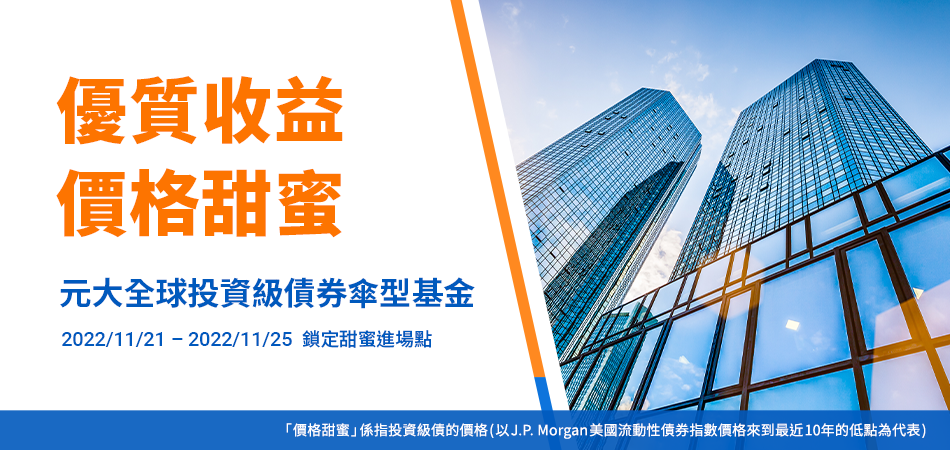
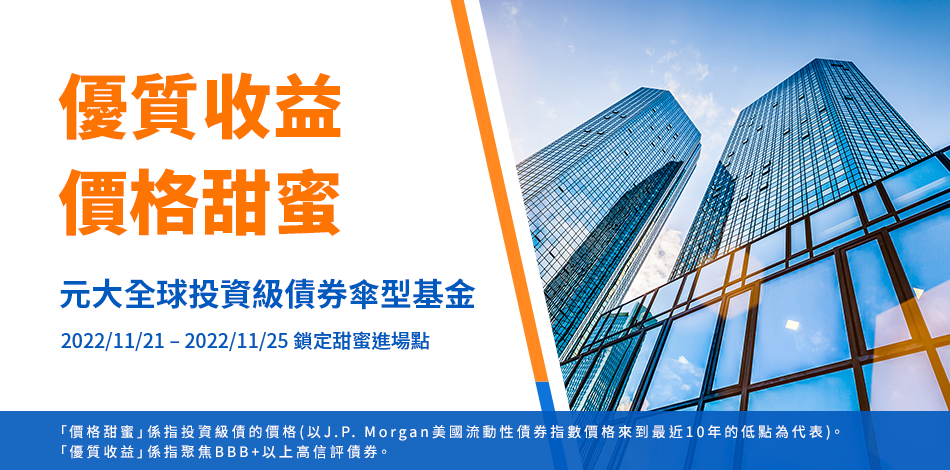
33

diff --git a/YGIGCBUF/index.html b/YGIGCBUF/index.html
@@ -114,7 +114,7 @@
                             <h2 class="wow fadeInUp" data-wow-delay="0.3s">
                                 優質收益<br>價格甜蜜
                                 <span>*</span>
-                                <p class="f14">「價格甜蜜」係指投資級債的價格(以J.P. Morgan美國流動性債券指數價格來到最近10年的低點為代表)。</p>
+                                <p class="f14">「價格甜蜜」係指投資級債的價格(以J.P. Morgan美國流動性債券指數價格來到最近10年的低點為代表)。<br />「優質收益」係指聚焦BBB+以上高信評債券。</p>
                             </h2>
                             <h3 class="wow fadeInUp" data-wow-delay="0.6s">元大全球投資級債券傘型基金</h3>
                             <p class="f22 wow fadeInUp" data-wow-delay="1.2s">2022/11/21 – 2022/11/25<span>鎖定甜蜜進場點</span></p>
@@ -148,7 +148,7 @@
                 </div>
                 <!-- 右側按鈕 -->
                 <div class="mainBtn" class="wow fadeIn" data-wow-delay="0.9s">
-                    <div id="btn-side-apply" class="f20 link"><a href="" target="_blank">我要申購</a></div>
+                    <div id="btn-side-apply" class="f20 link"><a href="https://ebank.yuantabank.com.tw/nib/ibanc_b.jsp?ZnVuZGJ1eSZZVDgyJnNpbmdsZQ==" target="_blank">我要申購</a></div>
                     <div id="btn-side-channel" class="f20 link"><a href="https://www.yuantabank.com.tw/bank/wealthManagement/wmPreOrderActivity/list.do?activity_id=YT82" target="_blank">我有興趣</a></div>
                 </div>
             </section>
@@ -475,7 +475,7 @@
                                 <p>
                                     <span class="item">檔案下載</span>
                                     <span class="val">
-                                        <a href="https://www.yuantafunds.com/fund/download/1213元大全球投資等級債券傘-公開說明書.pdf" target="_blank" id="btn-header-prospectus">
+                                        <a href="https://www.yuantabank.com.tw/bankwebIMG/event/Bank_Act2022/YGIGCBUF/download/1213元大全球投資等級債券傘-公開說明書.pdf" target="_blank" id="btn-header-prospectus">
                                             <img src="img/icon_section5_download.svg">公開說明書
                                         </a>
                                         <a :href="activeFundInfoList.url" target="_blank" :id="activeFundInfoList.simpId">
@@ -556,7 +556,7 @@
                                         <p>
                                             <span class="item">檔案下載</span>
                                             <span class="val">
-                                                <a href="https://www.yuantafunds.com/fund/download/1213元大全球投資等級債券傘-公開說明書.pdf" target="_blank" id="btn-header-prospectus">
+                                                <a href="https://www.yuantabank.com.tw/bankwebIMG/event/Bank_Act2022/YGIGCBUF/download/1213元大全球投資等級債券傘-公開說明書.pdf" target="_blank" id="btn-header-prospectus">
                                                     <img src="img/icon_section5_download.svg">公開說明書
                                                 </a>
                                                 <a :href="activeFundInfoList.url" target="_blank" id="btn-header-prospectus-simp">
@@ -584,7 +584,7 @@
                     </div>
                     <div class="content f14">
                         <p>
-                            【元大投信獨立經營管理】各子基金經金管會核准或申報生效，惟不表示絕無風險。本公司以往之經理績效，不保證基金之最低投資收益；本公司除盡善良管理人之注意義務外，不負責基金之盈虧，亦不保證最低之收益，投資人申購前應詳閱基金公開說明書。定期定額報酬率將因投資人不同時間進場，而有不同之投資績效，過去之績效亦不代表未來績效之保證；本文提及之經濟走勢預測，不必然代表基金之績效，基金投資風險請詳閱基金公開說明書。為避免因受益人短線交易頻繁，造成基金管理及交易成本增加，進而損及基金長期持有之受益人權益，基金不歡迎受益人進行短線交易。基金非存款或保險，故無受存款保險、保險安定基金或其他相關保障機制之保障。</span>
+                            【元大投信獨立經營管理】各子基金經金管會核准或申報生效，惟不表示絕無風險。本公司以往之經理績效，不保證基金之最低投資收益；本公司除盡善良管理人之注意義務外，不負責基金之盈虧，亦不保證最低之收益，投資人申購前應詳閱基金公開說明書。定期定額報酬率將因投資人不同時間進場，而有不同之投資績效，過去之績效亦不代表未來績效之保證；本文提及之經濟走勢預測，不必然代表基金之績效，基金投資風險請詳閱基金公開說明書。為避免因受益人短線交易頻繁，造成基金管理及交易成本增加，進而損及基金長期持有之受益人權益，基金不歡迎受益人進行短線交易。基金非存款或保險，故無受存款保險、保險安定基金或其他相關保障機制之保障。
                         </p>
                         <p class="yt-blue">基金的運用限制、投資風險、基金申購手續費之收取方式和比率、投資人應直接或間接負擔之相關費用、紛爭處理及申訴管道等皆已揭露於基金公開說明書中，投資人可向本公司及基金之銷售機構索取，亦可至公開資訊觀測站 (mops.twse.com.tw) 或本公司網站 (www.yuantafunds.com) 中查詢。</p>
                         <p class="yt-blue">各子基金主要投資風險包括國家風險、資產過度集中風險、利率風險、匯率風險、流動性風險、債券交易之信用風險等，基金所投資標的發生上開風險時，基金之淨資產價值可能因此產生波動。基金配息率不代表基金報酬率，且過去配息率不代表未來配息率；基金淨值可能因市場因素而上下波動。</p>
@@ -766,7 +766,7 @@
                         CLOSE: '自成立之日起 90 日曆日後',
                         CYCLE_TYPE: '不配息',
                         PAY_DAY: '買回申請日 ( T日 ) 之次一營業日起8個營業日內 ( 實際付款日為 T+6 )',
-                        url: 'https://www.yuantafunds.com/fund/download/1213元大0至2年投資級企業債券基金-簡式公開說明書.pdf',
+                        url: 'https://www.yuantabank.com.tw/bankwebIMG/event/Bank_Act2022/YGIGCBUF/download/1213元大0至2年投資級企業債券基金-簡式公開說明書.pdf',
                         simpId: 'btn-header-prospectus-simp-0to2'
                     },
                     {
@@ -782,7 +782,7 @@
                         CLOSE: '自成立之日起 90 日曆日後',
                         CYCLE_TYPE: '不配息、季配息 <span class="f14 ps">(3月、6月、9月、12月)</span>',
                         PAY_DAY: '買回申請日 ( T日 ) 之次一營業日起8個營業日內 ( 實際付款日為 T+6 )',
-                        url: 'https://www.yuantafunds.com/fund/download/1215元大2至10年投資級企業債券基金-簡式公開說明書.pdf',
+                        url: 'https://www.yuantabank.com.tw/bankwebIMG/event/Bank_Act2022/YGIGCBUF/download/1215元大2至10年投資級企業債券基金-簡式公開說明書.pdf',
                         simpId: 'btn-header-prospectus-simp-2to10'
                     },
                     {
@@ -798,7 +798,7 @@
                         CLOSE: '自成立之日起 90 日曆日後',
                         CYCLE_TYPE: '不配息、季配息 <span class="f14 ps">(1月、4月、7月、10月)</span>',
                         PAY_DAY: '買回申請日 ( T日 ) 之次一營業日起8個營業日內 ( 實際付款日為 T+6 )',
-                        url: 'https://www.yuantafunds.com/fund/download/1219元大10年以上投資級企業債券基金-簡式公開說明書.pdf',
+                        url: 'https://www.yuantabank.com.tw/bankwebIMG/event/Bank_Act2022/YGIGCBUF/download/1219元大10年以上投資級企業債券基金-簡式公開說明書.pdf',
                         simpId: 'btn-header-prospectus-simp-10up'
                     }
                 ],

diff --git a/YGIGCBUF/css/main.css b/YGIGCBUF/css/main.css
@@ -210,14 +210,17 @@ section.main .title h2 { font-size: 90px; line-height: 130px; color: #fd7400; fo
 @media screen and (max-width:576px) {
 	section.main .title h2 { font-size: 40px; line-height: 58px; padding: 0; margin-top: 20px; display: block }
 }
-section.main .title h2 span { font-size: 30px; line-height: 30px; display: inline-block; transform: translate(-20px 0, -50px); cursor: pointer }
+section.main .title h2 span { font-size: 30px; line-height: 30px; display: inline-block; transform: translate(-20px, -50px); cursor: pointer }
 section.main .title h2 span:hover~p { display: block }
+@media screen and (max-width:1024px) {
+	section.main .title h2 span { transform: translate(-5px, -30px) }
+}
 @media screen and (max-width:576px) {
 	section.main .title h2 span { transform: translate(-5px, -10px) }
 }
 section.main .title h2 p { display: none; color: #52709a; border: 1px solid; padding: 15px; position: absolute; bottom: 0; left: calc(100% + 10px); width: 240px; background: #fff }
 @media screen and (max-width:576px) {
-	section.main .title h2 p { padding: 10px; left: 0; bottom: auto; top: calc(100% + 10px); width: 100% }
+	section.main .title h2 p { padding: 10px; left: 0; bottom: auto; top: calc(100% + 5px); width: 100% }
 }
 section.main .title h3 { color: #0059bd; padding: 20px 0 }
 @media screen and (max-width:1024px) {
